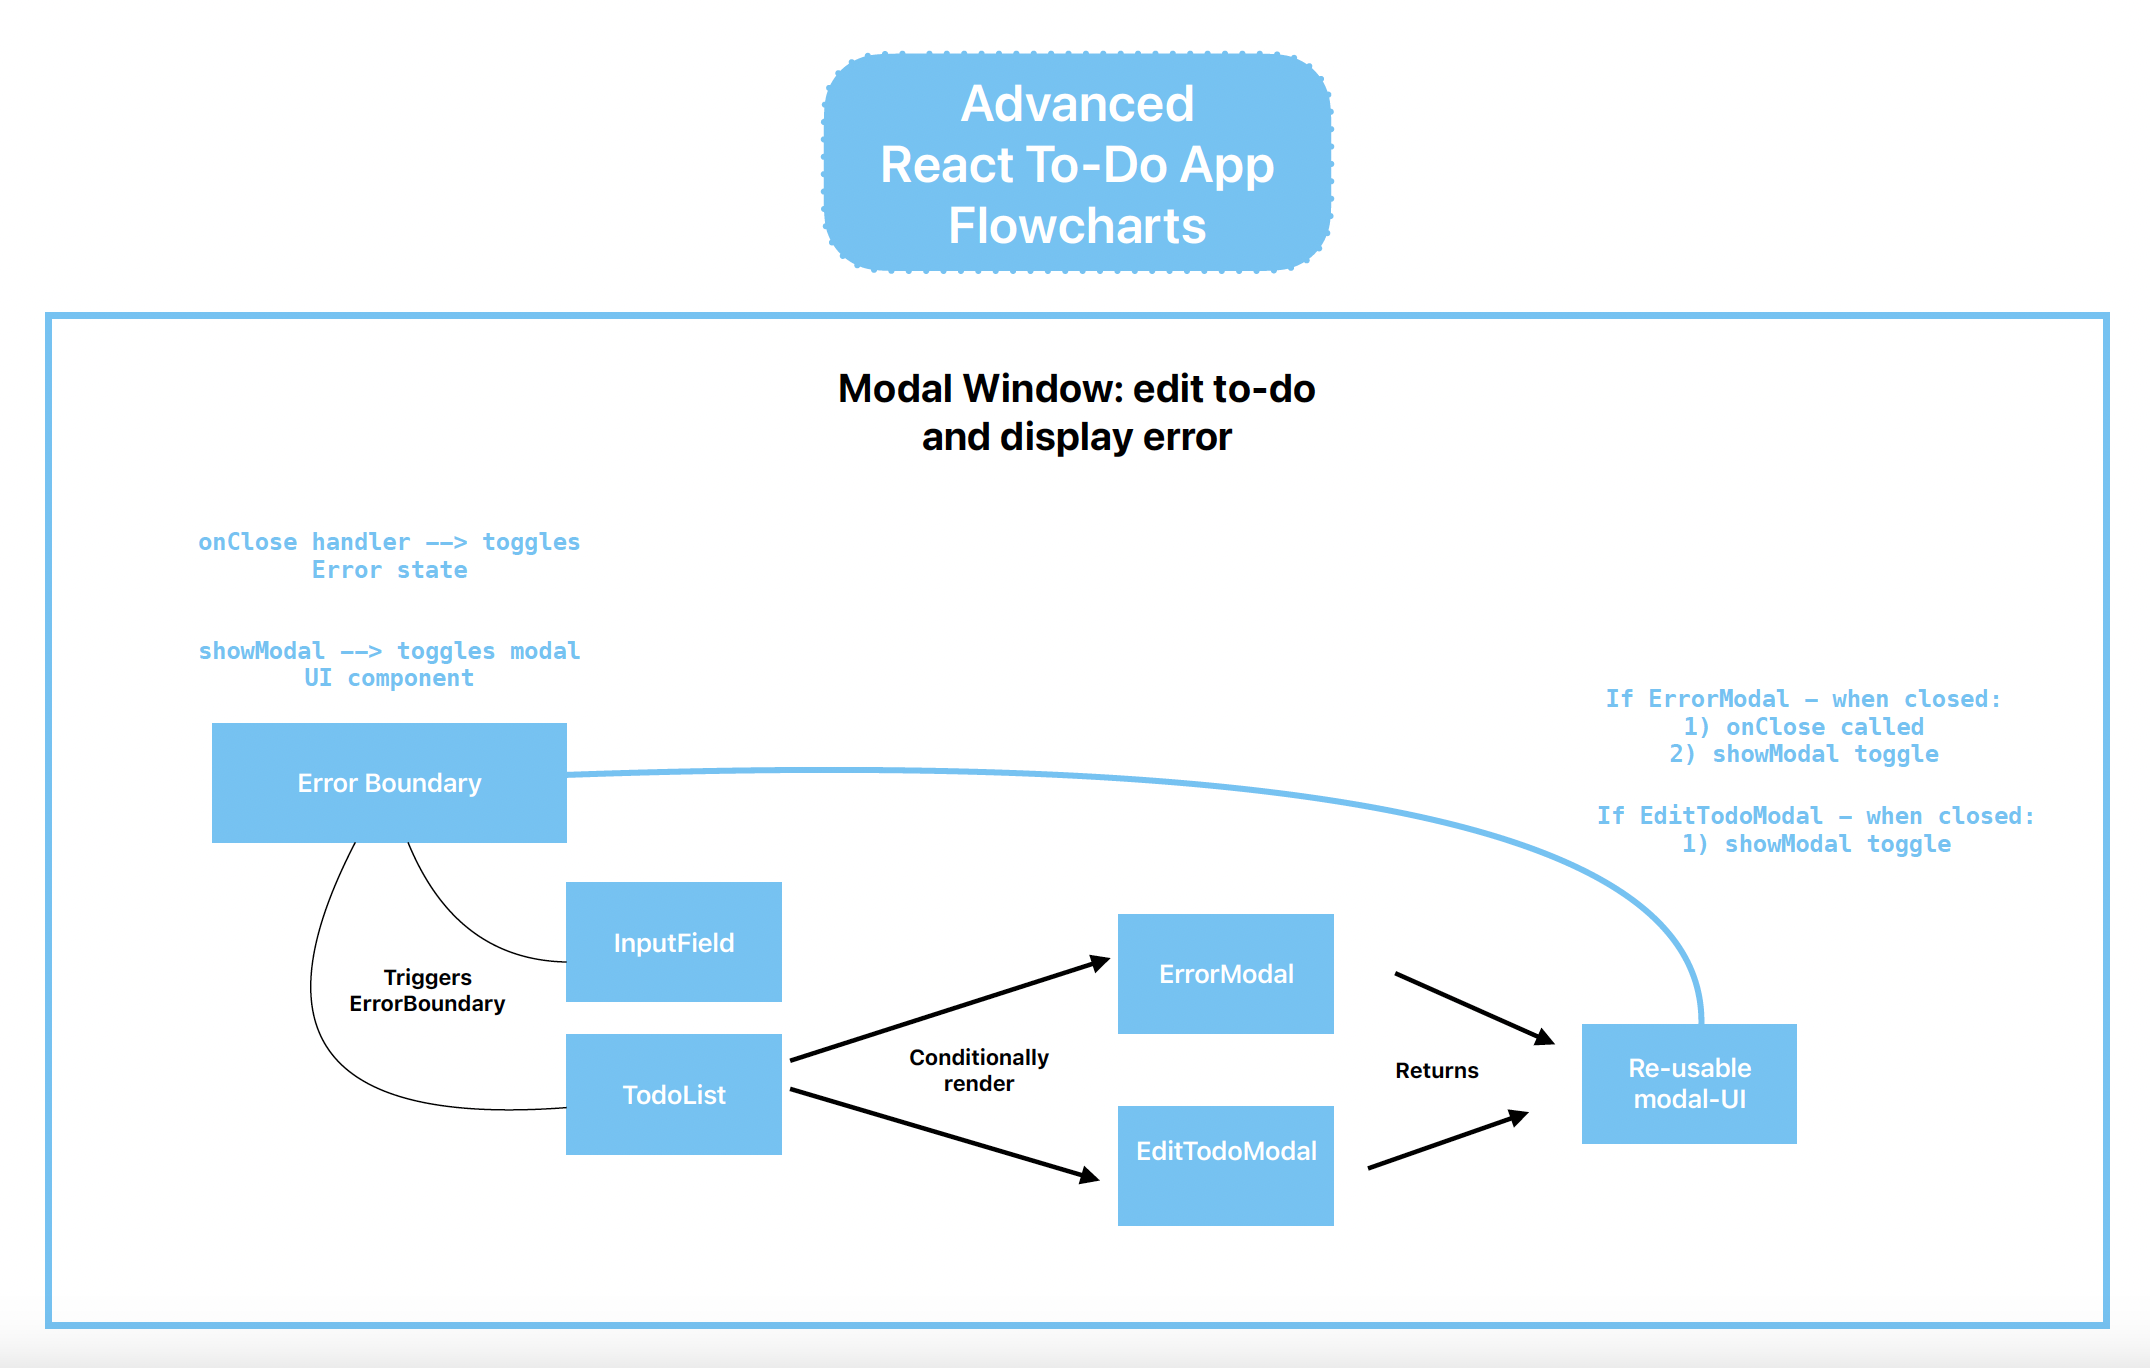
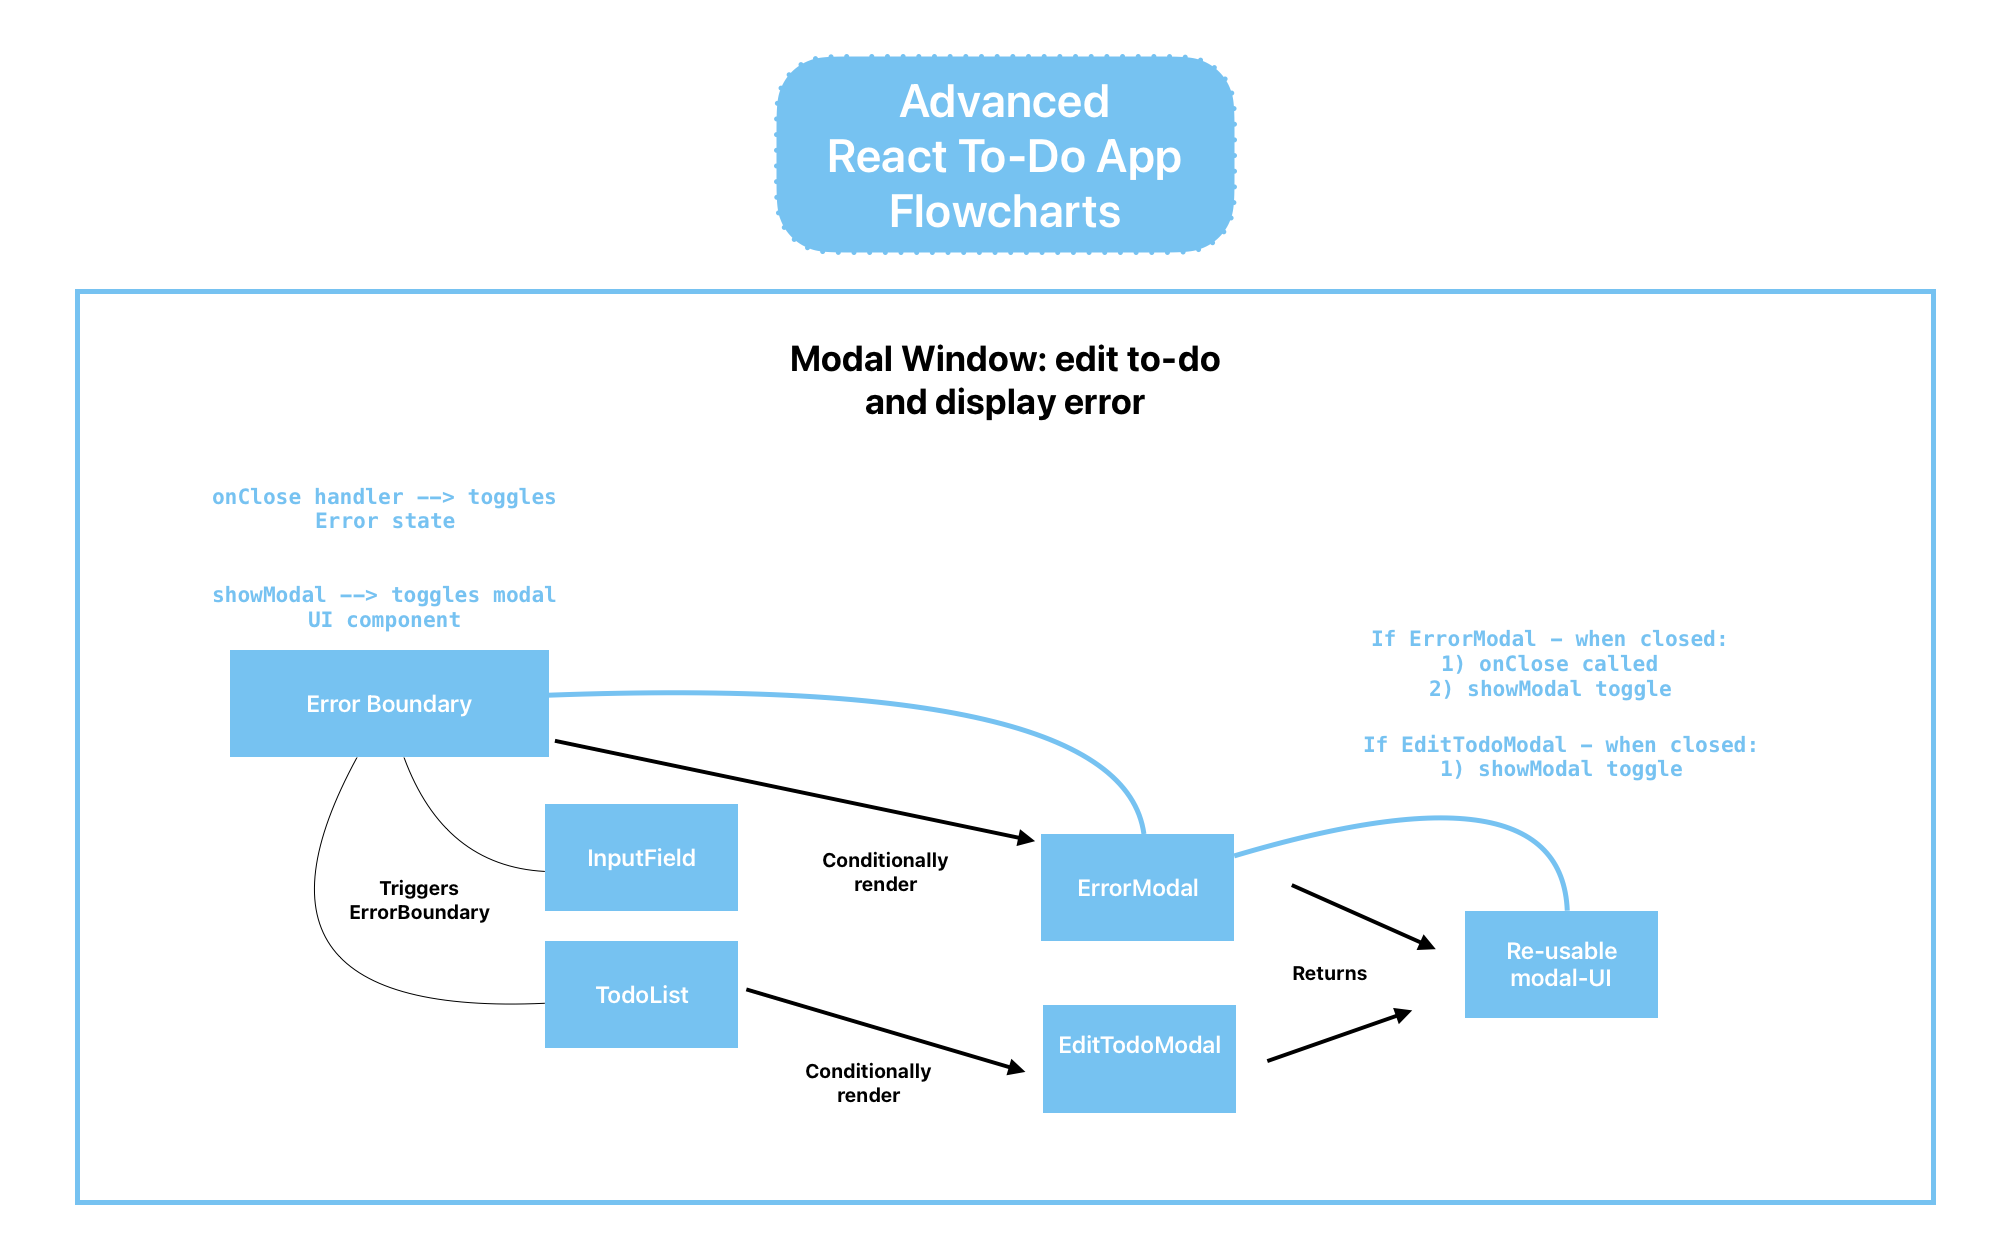
corrected flowchart & added reminders about modal

diff --git a/src/components/TodoList.js b/src/components/TodoList.js
@@ -2,7 +2,6 @@
 import classes from './TodoList.module.css';
 import { useState, useEffect} from 'react';
 import EditTodoModal from './Modal/EditTodoModal';
-import Modal from './UI/Modal';
 
 const ToDoList = props => {
 
